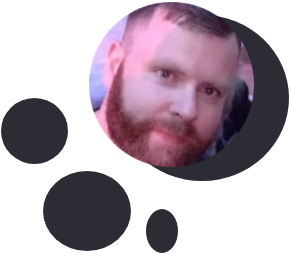
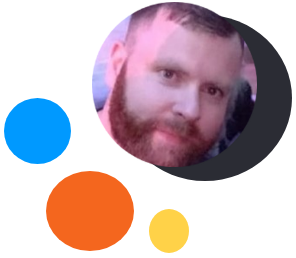
landing work

diff --git a/src/components/about/aboutInfo.tsx b/src/components/about/aboutInfo.tsx
@@ -7,7 +7,7 @@ import { Flashlight } from "styled-icons/remix-fill/Flashlight";
 
 const AboutStyle = styled.div`
   .about-block {
-    background: #2b2c34;
+    background: #ededed;
   }
   .item-row {
     display: flex;
@@ -33,7 +33,7 @@ const AboutStyle = styled.div`
     }
   }
   h3 {
-    color: #fff;
+    color: #2b2c34;
   }
 `;
 
@@ -54,7 +54,7 @@ function About() {
               animate={{ y: 30 }}
               transition={{ ease: "easeOut", duration: 1.2 }}
             >
-              <Lock width={65} fill="#fff" />
+              <Lock width={65} fill="#2b2c34" />
             </motion.div>
           </div>
           <div className="item centered">
@@ -62,7 +62,7 @@ function About() {
               animate={{ y: 30 }}
               transition={{ ease: "easeOut", duration: 1.6 }}
             >
-              <PhoneAndroid width={65} fill="#fff" />
+              <PhoneAndroid width={65} fill="#2b2c34" />
             </motion.div>
           </div>
           <div className="item centered">
@@ -70,7 +70,7 @@ function About() {
               animate={{ y: 30 }}
               transition={{ ease: "easeOut", duration: 2 }}
             >
-              <Flashlight width={65} fill="#fff" />
+              <Flashlight width={65} fill="#2b2c34" />
             </motion.div>
           </div>
         </div>

diff --git a/src/components/team/teamInfo.tsx b/src/components/team/teamInfo.tsx
@@ -2,7 +2,7 @@ import * as React from "react";
 import styled from "styled-components";
 import { motion } from "framer-motion";
 import ImageLoader from "../atoms/imageLoader";
-const dev = require("../../images/michael.png");
+const dev = require("../../images/x.png");
 import { LinkedinSquare } from "styled-icons/boxicons-logos/LinkedinSquare";
 
 const TeamStyle = styled.div`
@@ -42,7 +42,7 @@ function TeamInfo() {
       <div className="team-block">
         <svg xmlns="http://www.w3.org/2000/svg" viewBox="0 0 1440 320">
           <path
-            fill="#2b2c34"
+            fill="#ededed"
             fillOpacity="1"
             d="M0,32L24,48C48,64,96,96,144,112C192,128,240,128,288,138.7C336,149,384,171,432,181.3C480,192,528,192,576,176C624,160,672,128,720,117.3C768,107,816,117,864,112C912,107,960,85,1008,69.3C1056,53,1104,43,1152,80C1200,117,1248,203,1296,229.3C1344,256,1392,224,1416,208L1440,192L1440,0L1416,0C1392,0,1344,0,1296,0C1248,0,1200,0,1152,0C1104,0,1056,0,1008,0C960,0,912,0,864,0C816,0,768,0,720,0C672,0,624,0,576,0C528,0,480,0,432,0C384,0,336,0,288,0C240,0,192,0,144,0C96,0,48,0,24,0L0,0Z"
           />

diff --git a/src/components/landing/landing.tsx b/src/components/landing/landing.tsx
@@ -72,7 +72,7 @@ function Landing() {
 
         <svg xmlns="http://www.w3.org/2000/svg" viewBox="0 0 1440 320">
           <path
-            fill="#f4661e"
+            fill="#f99b1d"
             fillOpacity="1"
             d="M0,160L30,160C60,160,120,160,180,144C240,128,300,96,360,69.3C420,43,480,21,540,48C600,75,660,149,720,170.7C780,192,840,160,900,138.7C960,117,1020,107,1080,117.3C1140,128,1200,160,1260,149.3C1320,139,1380,85,1410,58.7L1440,32L1440,320L1410,320C1380,320,1320,320,1260,320C1200,320,1140,320,1080,320C1020,320,960,320,900,320C840,320,780,320,720,320C660,320,600,320,540,320C480,320,420,320,360,320C300,320,240,320,180,320C120,320,60,320,30,320L0,320Z"
           />

diff --git a/src/app/main.tsx b/src/app/main.tsx
@@ -35,7 +35,6 @@ const GlobalStyle = createGlobalStyle`
     text-align: center;
     margin-top: 70px;
     font-size: 2rem;
-    color: #808293;
   }
 `;
 
